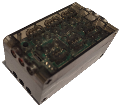
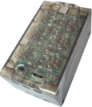
JK: changed images for MK4 and MK6 and order of channels in channelselector

diff --git a/BrickController2/BrickController2/UI/Controls/DeviceChannelSelector.xaml b/BrickController2/BrickController2/UI/Controls/DeviceChannelSelector.xaml
@@ -251,8 +251,8 @@
                 </Grid.ColumnDefinitions>
 
                 <Grid Grid.Column="0">
-                    <controls:ChannelSelectorRadioButton x:Name="MK4Channel0" DeviceType="MK4" Channel="0" HorizontalOptions="End" VerticalOptions="Start"/>
-                    <controls:ChannelSelectorRadioButton x:Name="MK4Channel3" DeviceType="MK4" Channel="3" HorizontalOptions="End" VerticalOptions="End"/>
+                    <controls:ChannelSelectorRadioButton x:Name="MK4Channel3" DeviceType="MK4" Channel="3" HorizontalOptions="End" VerticalOptions="Start"/>
+                    <controls:ChannelSelectorRadioButton x:Name="MK4Channel0" DeviceType="MK4" Channel="0" HorizontalOptions="End" VerticalOptions="End"/>
                 </Grid>
 
                 <Image Grid.Column="1" Source="{extensions:ImageResource Source=mk4_image.png}" WidthRequest="150" HeightRequest="100"/>
@@ -266,27 +266,15 @@
             <!-- MK6 -->
             <Grid x:Name="MK6Section">
                 <Grid.ColumnDefinitions>
-                    <ColumnDefinition Width="*" />
-                    <ColumnDefinition Width="Auto" />
-                    <ColumnDefinition Width="*" />
+                    <ColumnDefinition Width="*"/>
+                    <ColumnDefinition Width="Auto"/>
+                    <ColumnDefinition Width="*"/>
                 </Grid.ColumnDefinitions>
 
                 <Grid Grid.Column="0">
-                    <controls:ChannelSelectorRadioButton x:Name="MK6Channel0"
-                                                         DeviceType="MK6"
-                                                         Channel="0"
-                                                         HorizontalOptions="End"
-                                                         VerticalOptions="Start" />
-                    <controls:ChannelSelectorRadioButton x:Name="MK6Channel2"
-                                                         DeviceType="MK6"
-                                                         Channel="2"
-                                                         HorizontalOptions="End"
-                                                         VerticalOptions="Center" />
-                    <controls:ChannelSelectorRadioButton x:Name="MK6Channel4"
-                                                         DeviceType="MK6"
-                                                         Channel="4"
-                                                         HorizontalOptions="End"
-                                                         VerticalOptions="End" />
+                    <controls:ChannelSelectorRadioButton x:Name="MK6Channel5" DeviceType="MK6" Channel="5" HorizontalOptions="End" VerticalOptions="Start" />
+                    <controls:ChannelSelectorRadioButton x:Name="MK6Channel3" DeviceType="MK6" Channel="3" HorizontalOptions="End" VerticalOptions="Center" />
+                    <controls:ChannelSelectorRadioButton x:Name="MK6Channel1" DeviceType="MK6" Channel="1" HorizontalOptions="End" VerticalOptions="End" />
                 </Grid>
 
                 <Image Grid.Column="1"
@@ -295,21 +283,9 @@
                        HeightRequest="100" />
 
                 <Grid Grid.Column="2">
-                    <controls:ChannelSelectorRadioButton x:Name="MK6Channel1"
-                                                         DeviceType="MK6"
-                                                         Channel="1"
-                                                         HorizontalOptions="Start"
-                                                         VerticalOptions="Start" />
-                    <controls:ChannelSelectorRadioButton x:Name="MK6Channel3"
-                                                         DeviceType="MK6"
-                                                         Channel="3"
-                                                         HorizontalOptions="Start"
-                                                         VerticalOptions="Center" />
-                    <controls:ChannelSelectorRadioButton x:Name="MK6Channel5"
-                                                         DeviceType="MK6"
-                                                         Channel="5"
-                                                         HorizontalOptions="Start"
-                                                         VerticalOptions="End" />
+                    <controls:ChannelSelectorRadioButton x:Name="MK6Channel4" DeviceType="MK6" Channel="4" HorizontalOptions="Start" VerticalOptions="Start" />
+                    <controls:ChannelSelectorRadioButton x:Name="MK6Channel2" DeviceType="MK6" Channel="2" HorizontalOptions="Start" VerticalOptions="Center" />
+                    <controls:ChannelSelectorRadioButton x:Name="MK6Channel0" DeviceType="MK6" Channel="0" HorizontalOptions="Start" VerticalOptions="End" />
                 </Grid>
             </Grid>
             
